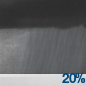
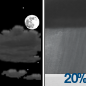
wire: 2026-10-13 RSA-1013-WIRE-115 + first sports/weather siblings

diff --git a/wire.html b/wire.html
@@ -5,12 +5,12 @@
   <meta name="viewport" content="width=device-width, initial-scale=1.0">
   <script>(function(){try{var s=localStorage.getItem('usmc-theme')||localStorage.getItem('theme');if(s!=='light')document.documentElement.setAttribute('data-theme','dark');}catch(e){}})();</script>
   <title>RESOLUTE Wire — Curated News for Citizens | U.S.M.C. Ministries</title>
-  <meta name="description" content="National and technology reporting for Monday evening.">
+  <meta name="description" content="National and technology reporting for Tuesday morning.">
   <link rel="canonical" href="https://usmcmin.com/wire.html">
   <meta property="og:site_name" content="RESOLUTE Wire">
-  <meta property="og:title" content="Cole&#x27;s crew marked 26 years since the Aden bombing at the ship&#x27;s memorial in Norfolk — RESOLUTE Wire">
-  <meta name="twitter:title" content="Cole&#x27;s crew marked 26 years since the Aden bombing at the ship&#x27;s memorial in Norfolk — RESOLUTE Wire">
-  <meta property="og:description" content="National and technology reporting for Monday evening.">
+  <meta property="og:title" content="USS Cole marked 26 years since the Aden bombing at Naval Station Norfolk — RESOLUTE Wire">
+  <meta name="twitter:title" content="USS Cole marked 26 years since the Aden bombing at Naval Station Norfolk — RESOLUTE Wire">
+  <meta property="og:description" content="National and technology reporting for Tuesday morning.">
   <meta property="og:type" content="website">
   <meta property="og:url" content="https://usmcmin.com/wire.html">
   <meta property="og:image" content="https://usmcmin.com/assets/og/wire-dvids-10007170-cole-remembrance-1200x630.jpg">
@@ -134,8 +134,8 @@
     </div>
     <header class="mast" id="top">
       <h1>RESOLUTE <em>Wire</em></h1>
-      <p class="dek">National and technology reporting for Monday evening.</p>
-      <div class="meta">Monday, October 12, 2026 · PM edition · Rush Sullivan</div>
+      <p class="dek">National and technology reporting for Tuesday morning.</p>
+      <div class="meta">Tuesday, October 13, 2026 · AM edition · Rush Sullivan</div>
     </header>
     <article class="hero">
       <div class="hero-media">
@@ -144,8 +144,8 @@
       </div>
       <div class="hero-body">
         <span class="chip">DVIDS</span>
-        <h2><a href="https://www.dvidshub.net/news/576795/uss-cole-crew-honors-fallen-heroes-26th-anniversary-bombing" target="_blank" rel="noopener">Cole&#x27;s crew marked 26 years since the Aden bombing at the ship&#x27;s memorial in Norfolk</a></h2>
-        <p class="insight">The crew of USS Cole held a remembrance today at the USS Cole Memorial on Naval Station Norfolk. The Navy said the ceremony included a wreath-laying, a reading of the names of the 17 sailors killed, a ceremonial bell, a three-volley rifle salute, and Taps. On Oct. 12, 2000, while the destroyer was refueling in Aden, Yemen, a small boat detonated against the port side at 11:18 a.m. local time, ripping a 40-by-60-foot hole near the waterline. Seventeen sailors were killed and nearly 40 were injured. Commanding officer Cmdr. Chris Gostel said the ship&#x27;s legacy is part of everything the crew does. Cole remains an active warship.</p>
+        <h2><a href="https://www.dvidshub.net/news/576795/uss-cole-crew-honors-fallen-heroes-26th-anniversary-bombing" target="_blank" rel="noopener">USS Cole marked 26 years since the Aden bombing at Naval Station Norfolk</a></h2>
+        <p class="insight">DVIDS posted Monday that the crew of USS Cole held a remembrance at the USS Cole Memorial on Naval Station Norfolk. The ceremony included a wreath-laying, a reading of the names with a ceremonial bell, a three-volley rifle salute, and Taps. On Oct. 12, 2000, while the destroyer was refueling in Aden, Yemen, an Al-Qaida boat detonated against the port side at 11:18 a.m. local time, killing 17 Sailors and injuring nearly 40. Cmdr. Chris Gostel, the commanding officer, said the ship&#x27;s legacy is part of everything the crew does. The release says Cole remains an active warship. It does not say where the ship is assigned now.</p>
         <div class="src">DVIDS · <a href="https://www.dvidshub.net/news/576795/uss-cole-crew-honors-fallen-heroes-26th-anniversary-bombing" target="_blank" rel="noopener">Read source →</a></div>
       </div>
     </article>
@@ -154,17 +154,17 @@
         <h3>Political</h3>
         <article class="item no-media">
           <div>
-            <h4><a href="https://lawliberty.org/james-madison-on-human-nature/" target="_blank" rel="noopener">Law &amp; Liberty says Madison&#x27;s limit on power starts with human nature, not procedure</a></h4>
-            <p>Monday&#x27;s lecture, revised from an April talk at Hillsdale&#x27;s Washington campus, argues that James Madison treated government as a reflection on human nature. It quotes Federalist 51 and Madison&#x27;s 1816 annual message, which tied the public good to the written Constitution and to the moral principles allied to it. The writer pushes back on readings that treat Madison as a pluralist whose order is only checks, balances, and bargaining. It is an argument about founding principles, not a bill or a floor vote.</p>
+            <h4><a href="https://lawliberty.org/what-does-history-and-tradition-require/" target="_blank" rel="noopener">Law &amp; Liberty says the Court never required an unbroken tradition for every religious practice</a></h4>
+            <p>Tuesday&#x27;s essay argues that some separation advocates want a long, specific history before a religious display can stand, and that the Supreme Court has never said that. It cites Marsh v. Chambers on legislative prayer, Lynch v. Donnelly on a public Nativity, and Kennedy v. Bremerton, which dropped the Lemon test for historical practices. Justice Gorsuch&#x27;s Shurtleff concurrence, drawing on Michael McConnell, lists founding-era hallmarks of an establishment: control of doctrine, mandated attendance, punishment of dissenters, and public funding of a preferred church. The piece says a practice that does not resemble those hallmarks is presumably constitutional. It is an argument, not a new opinion.</p>
             <div class="who">Law &amp; Liberty</div>
           </div>
           
         </article>
         <article class="item no-media">
           <div>
-            <h4><a href="https://www.thepublicdiscourse.com/2026/10/102100/" target="_blank" rel="noopener">Public Discourse looks at a 539 decree that regulated who could enter Constantinople</a></h4>
-            <p>Monday&#x27;s essay asks how far a country may regulate migration and return people already inside its borders. The writer uses Novel 80, a decree Justinian issued in 539 that regulated migration to Constantinople and set up an office to enforce it. He argues the Catholic tradition has a basis both for enforcement and for protecting the most vulnerable. It is a historical argument, not a statute or an agency order.</p>
-            <div class="who">Public Discourse</div>
+            <h4><a href="https://lawliberty.org/private-prosecutors/" target="_blank" rel="noopener">Law &amp; Liberty says private False Claims Act suits still prosecute in the government&#x27;s name</a></h4>
+            <p>Tuesday&#x27;s essay says a qui tam relator, with no injury of her own, may sue in the name of the United States and keep up to 30 percent of the recovery. It cites a Justice Department release that relators filed a record 1,297 such suits last fiscal year, and that nearly half of what they recovered came in cases the department declined to join. The Eleventh Circuit held that Clarissa Zafirov, a physician-relator, is not an officer because she holds no continuing position, and sent the Vesting and Take Care questions back down. The piece treats fraud on the Treasury as a public wrong that belongs to the executive. It is an argument, not a statute.</p>
+            <div class="who">Law &amp; Liberty</div>
           </div>
           
         </article>
@@ -173,8 +173,8 @@
         <h3>Tech / AI</h3>
         <article class="item no-media">
           <div>
-            <h4><a href="https://www.defensenews.com/news/your-military/2026/10/12/us-army-creates-robotics-technician-job-to-focus-on-drone-warfare/" target="_blank" rel="noopener">The Army inducted its first robotics warrant officers for drone work</a></h4>
-            <p>Defense News reported Monday that the Army formally introduced 10 warrant officers as 390A robotics technicians at the John F. Kennedy Special Warfare Center and School. They are meant to program, build, repair, and integrate robotic and autonomous systems, and to advise commanders at brigade and group level. Candidates complete a 19-week course in which they build drones that do not need GPS or radio to navigate. Chief Warrant Officer 5 Jerry Brown said the skill cannot be one more hat for someone already on an operational detachment. Vice Chief of Staff Gen. Christopher LaNeve said the Army is scaling the specialty. This is an occupational specialty standing up, not a fielded drone fleet.</p>
+            <h4><a href="https://www.defensenews.com/news/your-military/2026/10/12/us-army-creates-robotics-technician-job-to-focus-on-drone-warfare/" target="_blank" rel="noopener">The Army inducted its first robotics technicians for drone warfare</a></h4>
+            <p>Defense News reported Monday that the Army formally introduced 10 warrant officers as 390A robotics technicians at the John F. Kennedy Special Warfare Center and School. They are to program, build, repair, and integrate robotic and autonomous systems, and advise commanders at brigade and group level. Chief Warrant Officer 5 Jerry Brown said the skill cannot be an extra hat on an operational detachment. Candidates take a 19-week course and must build drones that do not need GPS or radio to navigate. Vice Chief of Staff Gen. Christopher LaNeve said the Army is scaling the specialty. This is a new job, not a fielded fleet.</p>
             <div class="who">Defense News</div>
           </div>
           
@@ -182,7 +182,15 @@
         <article class="item no-media">
           <div>
             <h4><a href="https://www.defensenews.com/industry/techwatch/2026/10/12/lockheeds-new-pac-3-edge-interceptor-aims-for-agility/" target="_blank" rel="noopener">Lockheed showed a longer PAC-3 interceptor at the Army&#x27;s annual meeting</a></h4>
-            <p>Defense News reported Monday that Lockheed Martin debuted the PAC-3 Edge at the Association of the United States Army meeting in Washington. Jason Reynolds, who runs the company&#x27;s integrated air and missile defense business, said the missile can launch from the M903, from containerized launchers, and from a HIMARS configured for offense and defense. It is longer and wider than the PAC-3 MSE, adds attitude-control motors, and uses a three-pulse motor from Northrop Grumman. Lockheed said testing is planned for 2027. The Army timeline Reynolds cited is 2031, and the company wants it sooner. This is a debut, not a fielded round.</p>
+            <p>Defense News reported Monday that Lockheed Martin debuted the PAC-3 Edge at the Association of the United States Army meeting in Washington. Jason Reynolds, a Lockheed missiles executive, told the paper the missile can launch from the M903, from containerized launchers, and from a HIMARS offense-and-defense configuration. He said extra attitude-control motors and a third pulse, from a Northrop Grumman motor, are meant to add agility and altitude. Lockheed said in January it has a seven-year framework to raise annual PAC-3 production from about 600 to 2,000. Reynolds said Army timing is 2031, and Lockheed wants the missile sooner. This is a company unveiling, not a test shot.</p>
+            <div class="who">Defense News</div>
+          </div>
+          
+        </article>
+        <article class="item no-media">
+          <div>
+            <h4><a href="https://www.defensenews.com/news/your-military/2026/10/12/the-us-army-is-back-in-the-jungle-panamanians-are-showing-soldiers-the-way/" target="_blank" rel="noopener">The Army&#x27;s jungle school in Panama is open again, with Panamanian instructors</a></h4>
+            <p>Defense News reported Monday that the Jungle Operations Training Course, closed in 1999, has resumed as an 18-day class taught with Panamanian forces. Lt. Col. Andrew Eagen, who heads the U.S. center, said nine Panamanian instructors from three branches lead the survival work, and that more than 10 Panamanian students sat the class the reporter attended. He said the Army is holding at least 20 of 120 seats for partners, including 15 for Panamanians, and that Colombian students are the next likely add. Eagen said the course is about the environment, not Panama&#x27;s security situation. This is a reopened school, not a deployment order.</p>
             <div class="who">Defense News</div>
           </div>
           
@@ -192,17 +200,17 @@
         <h3>Culture</h3>
         <article class="item no-media">
           <div>
-            <h4><a href="https://www.dvidshub.net/news/576794/army-names-usasoc-team-best-squad-nco-and-soldier-year-winners" target="_blank" rel="noopener">A Ranger squad took the Army&#x27;s Best Squad title, and two of its own took the individual awards</a></h4>
-            <p>The Army announced the winners today at the Association of the United States Army meeting in Washington. Sgt. Maj. of the Army Michael R. Weimer gave all three honors to a five-soldier squad from the 75th Ranger Regiment, representing U.S. Army Special Operations Command. Cpl. Michael Shield was named Soldier of the Year and Staff Sgt. Colin Doyle was named NCO of the Year. The events ran at Fort Benning from Sept. 11 to 19 and included a board, fitness tests, weapons lanes, an 18.6-mile night march, and a water-survival course. Doyle said the regiment&#x27;s daily work is marksmanship, small-unit tactics, medical training, and mobility.</p>
-            <div class="who">DVIDS</div>
+            <h4><a href="https://www.thepublicdiscourse.com/2026/10/102110/" target="_blank" rel="noopener">Public Discourse says Catholic schools should stop handing every student a screen</a></h4>
+            <p>Tuesday&#x27;s essay argues that one-to-one Chromebook and iPad programs are hard to justify once generative tools can write a student&#x27;s essay. It quotes Pope Leo XIV&#x27;s encyclical Magnifica Humanitas that every technology shapes the person who uses it, and that education includes teaching when not to use it. The writer says character and spiritual formation both suffer when ease is the default, and that fluency with a tablet is not the same as command of language. The piece is an argument for school leaders, not a diocesan order.</p>
+            <div class="who">Public Discourse</div>
           </div>
           
         </article>
         <article class="item no-media">
           <div>
-            <h4><a href="https://www.dvidshub.net/news/576793/kfor-regional-command-east-transfers-authority-53rd-infantry-brigade-combat-team-1st-infantry-division" target="_blank" rel="noopener">The Big Red One took eastern Kosovo from the Florida Guard today</a></h4>
-            <p>Kosovo Force Regional Command-East transferred authority today at Camp Bondsteel from the 53rd Infantry Brigade Combat Team, Florida Army National Guard, to the 1st Infantry Division. Col. Sam Sargeant handed the command to Col. Jabari Miller. The release says the division helped stand up the NATO mission in 1999 and is back more than two decades later. During nine months, the outgoing task force ran more than 4,500 multinational battle-group patrols, 9,000 patrols in northern Kosovo, and about 1,900 flight hours. KFOR commander Maj. Gen. Özkan Ulutaş said the outgoing rotation led about 1,400 people from 12 nations.</p>
-            <div class="who">DVIDS</div>
+            <h4><a href="https://wng.org/articles/the-social-reckoning-1791473131" target="_blank" rel="noopener">WORLD says Sorkin&#x27;s Facebook film cuts January 6 against a hearing that came months later</a></h4>
+            <p>Thursday&#x27;s review covers Aaron Sorkin&#x27;s The Social Reckoning, a follow-on to The Social Network, set around the Facebook Files. WORLD rates it R and in theaters. The review says the film cuts a congressional hearing against January 6 as if the two sat close together, when they were nine months apart, and that the Files ran in September 2021, later than the film implies. It also says the picture shows people refusing masks and vaccines after the algorithm fed them misinformation, and does not show left-wing radicalization. The reviewer writes from a Washington screening where Frances Haugen said the film does not get everything right.</p>
+            <div class="who">WORLD News Group</div>
           </div>
           
         </article>
@@ -218,7 +226,7 @@
     </section>
     <section class="watch">
       <h3>Watch</h3>
-      <ul><li><a href="https://news.usni.org/2026/10/12/u-k-royal-navy-destroyer-returns-home-from-middle-east-strait-of-hormuz-multinational-mission-in-limbo" target="_blank" rel="noopener">USNI says HMS Dragon is home, and the Hormuz multinational mission is in limbo</a> </li><li><a href="https://www.defensenews.com/news/your-military/2026/10/12/3-us-soldiers-awarded-purple-hearts-after-missile-attack-on-saudi-arabia-base/" target="_blank" rel="noopener">Three soldiers received Purple Hearts for a March missile strike in Saudi Arabia</a> </li></ul>
+      <ul><li><a href="https://news.usni.org/2026/10/12/u-k-royal-navy-destroyer-returns-home-from-middle-east-strait-of-hormuz-multinational-mission-in-limbo" target="_blank" rel="noopener">USNI says a Royal Navy destroyer is home and the Hormuz mission is in limbo</a> </li></ul>
     </section>
     <section class="dock">
       <a href="sports.html"><div class="k">Texas desk</div><div class="t">Sports</div><div class="d">Texans, Astros, Rockets — character and the score.</div></a>

diff --git a/weather.html b/weather.html
@@ -131,7 +131,7 @@
     <header class="mast" id="top">
       <h1>RESOLUTE <em>Weather</em></h1>
       <p class="dek">Fredericksburg, Virginia — National Weather Service. Readiness, not climate talk.</p>
-      <div class="meta">Monday, October 12, 2026 · PM edition</div>
+      <div class="meta">Tuesday, October 13, 2026 · AM edition</div>
     </header>
     <article class="hero">
       <div class="hero-media">
@@ -140,16 +140,16 @@
       </div>
       <div class="hero-body">
         <span class="chip">NWS / Readiness</span>
-        <h2>No active NWS alerts on the Fredericksburg point. Mostly sunny this afternoon, high near 76.</h2>
-        <p class="insight">NWS lists no active alert for the Fredericksburg forecast point. Columbus Day afternoon is mostly sunny, a high near 76, a north wind around 8 mph. Tonight is mostly clear, a low around 55. Tuesday starts with patchy fog between 7 and 10 a.m., then sunny, near 82. Wednesday is sunny, near 88. A slight chance of showers returns after 2 a.m. Thursday.</p>
+        <h2>No active NWS alerts on the Fredericksburg point. Patchy fog, then sun, high near 82.</h2>
+        <p class="insight">NWS lists no active alert for the Fredericksburg forecast point. Today brings patchy fog before 10 a.m., then sun, a high near 82, and a south wind 0 to 7 mph. Tonight is clear, a low around 63. Wednesday is sunny, near 88. Thursday turns to rain showers likely, mostly cloudy, a high near 70, with a 60 percent chance of precipitation.</p>
         <div class="src">Alerts: No watch or warning is up. · <a href="https://forecast.weather.gov/MapClick.php?lat=38.3032&amp;lon=-77.4605" target="_blank" rel="noopener">NWS forecast →</a></div>
-        <ul class="actions"><li>No active watches or warnings on the city point</li><li>Mostly sunny this afternoon, high near 76, then mostly clear tonight</li><li>Patchy fog Tuesday morning, then sun through Wednesday</li></ul>
+        <ul class="actions"><li>No active watches or warnings on the city point</li><li>Patchy fog before 10 a.m., then sunny, high near 82</li><li>Rain showers likely Thursday, high near 70</li></ul>
       </div>
     </article>
     <section class="watch">
       <h3>Forecast</h3>
-      <p class="src">NWS forecast issued 2:22 PM EDT, Oct. 12. Periods below are as issued for this edition · <a href="https://forecast.weather.gov/MapClick.php?lat=38.3032&amp;lon=-77.4605" target="_blank" rel="noopener">Current forecast →</a></p>
-      <div class="period"><img class="period-icon" src="assets/weather/nws-columbus-day-day-sct.png" alt=""><div><strong>Columbus Day</strong><p class="insight">Mostly sunny, with a high near 76. North wind around 8 mph.</p></div></div><div class="period"><img class="period-icon" src="assets/weather/nws-tonight-night-few.png" alt=""><div><strong>Tonight</strong><p class="insight">Mostly clear, with a low around 55. Northwest wind 0 to 5 mph.</p></div></div><div class="period"><img class="period-icon" src="assets/weather/nws-tuesday-day-fog-few.png" alt=""><div><strong>Tuesday</strong><p class="insight">Patchy fog between 7am and 10am. Sunny, with a high near 82. Southwest wind 0 to 8 mph.</p></div></div><div class="period"><img class="period-icon" src="assets/weather/nws-tuesday-night-night-few.png" alt=""><div><strong>Tuesday Night</strong><p class="insight">Mostly clear, with a low around 64. Southwest wind 2 to 6 mph.</p></div></div><div class="period"><img class="period-icon" src="assets/weather/nws-wednesday-day-few.png" alt=""><div><strong>Wednesday</strong><p class="insight">Sunny, with a high near 88. Southwest wind around 5 mph.</p></div></div><div class="period"><img class="period-icon" src="assets/weather/nws-wednesday-night-night-sct-rain.png" alt=""><div><strong>Wednesday Night</strong><p class="insight">A slight chance of rain showers after 2am. Partly cloudy, with a low around 65. Chance of precipitation is 20%.</p></div></div>
+      <p class="src">NWS forecast issued 4:53 AM EDT, Oct. 13. Periods below are as issued for this edition · <a href="https://forecast.weather.gov/MapClick.php?lat=38.3032&amp;lon=-77.4605" target="_blank" rel="noopener">Current forecast →</a></p>
+      <div class="period"><img class="period-icon" src="assets/weather/nws-today-day-fog-few.png" alt=""><div><strong>Today</strong><p class="insight">Patchy fog before 10am. Sunny, with a high near 82. South wind 0 to 7 mph.</p></div></div><div class="period"><img class="period-icon" src="assets/weather/nws-tonight-night-skc.png" alt=""><div><strong>Tonight</strong><p class="insight">Clear, with a low around 63. Southwest wind 2 to 6 mph.</p></div></div><div class="period"><img class="period-icon" src="assets/weather/nws-wednesday-day-few.png" alt=""><div><strong>Wednesday</strong><p class="insight">Sunny, with a high near 88. Southwest wind 1 to 6 mph.</p></div></div><div class="period"><img class="period-icon" src="assets/weather/nws-wednesday-night-night-rain.png" alt=""><div><strong>Wednesday Night</strong><p class="insight">A slight chance of rain showers after 2am. Partly cloudy, with a low around 65. Northwest wind around 3 mph. Chance of precipitation is 20%.</p></div></div><div class="period"><img class="period-icon" src="assets/weather/nws-thursday-day-rain.png" alt=""><div><strong>Thursday</strong><p class="insight">Rain showers likely. Mostly cloudy, with a high near 70. Northeast wind 3 to 7 mph. Chance of precipitation is 60%.</p></div></div><div class="period"><img class="period-icon" src="assets/weather/nws-thursday-night-night-rain.png" alt=""><div><strong>Thursday Night</strong><p class="insight">A chance of rain showers. Mostly cloudy, with a low around 60. Chance of precipitation is 30%.</p></div></div>
       
     </section>
     <section class="dock">

diff --git a/sports.html b/sports.html
@@ -131,16 +131,16 @@
     <header class="mast" id="top">
       <h1>RESOLUTE <em>Sports</em></h1>
       <p class="dek">Texas desk — Texans, Astros, Rockets. Character and the score, not celebrity.</p>
-      <div class="meta">Monday, October 12, 2026 · PM edition</div>
+      <div class="meta">Tuesday, October 13, 2026 · AM edition</div>
     </header>
     <article class="hero">
       <div class="hero-media">
-        <img src="assets/sports/nrg-reliant-interior.jpg" alt="NRG Stadium, Houston">
-        <div class="hero-credit">NRG Stadium interior. Wikimedia Commons, CC BY-SA 2.0. Photo: Ed Schipul.</div>
+        <img src="assets/sports/nrg-reliant-interior.jpg" alt="Reliant Stadium, Houston">
+        <div class="hero-credit">Reliant Stadium interior. Wikimedia Commons, CC BY-SA 2.0. Photo: Ed Schipul.</div>
       </div>
       <div class="hero-body">
         <span class="chip">Venue still</span>
-        <h2>NRG Stadium, Houston</h2>
+        <h2>Reliant Stadium, Houston</h2>
         <p class="insight">Wikimedia Commons venue stills. Not league game photography.</p>
       </div>
     </article>
@@ -150,24 +150,24 @@
         <article class="item">
           <div>
             <h4><a href="https://www.houstontexans.com/schedule/" target="_blank" rel="noopener">Texans play Jacksonville in London on Sunday, 8:30 a.m. Central</a></h4>
-            <p>The Houston Texans schedule lists Sunday, Oct. 18, as an away game against the Jacksonville Jaguars at Wembley Stadium, kickoff 8:30 a.m. Central, on NFL Network. Sunday&#x27;s game at Tennessee is behind them on the club page, which does not print a final, so none is stated here. The next home date is Oct. 25 against the New York Giants, noon Central, on FOX.</p>
+            <p>The Houston Texans schedule lists Sunday, Oct. 18, as an away game against the Jacksonville Jaguars at Wembley Stadium, kickoff 8:30 a.m. Central, on NFL Network. Sunday&#x27;s game at Tennessee is behind them on the club page, which does not print a final, so none is stated here. The next home date is Oct. 25 against the New York Giants, noon Central, on FOX. The club page now calls the home ground Reliant Stadium.</p>
             <div class="who">Houston Texans</div>
           </div>
           <div class="thumb"><img src="assets/sports/nrg-reliant-interior.jpg" alt=""></div>
         </article>
         <article class="item">
           <div>
-            <h4><a href="https://www.mlb.com/news/5-questions-facing-astros-in-2026-offseason" target="_blank" rel="noopener">Astros still have no general manager, and Espada&#x27;s contract ends this month</a></h4>
-            <p>MLB.com reports the club parted ways with general manager Dana Brown on Aug. 24. Assistant general managers Charles Cook, Gavin Dickey, and Connor Huff, with senior advisor Jeff Bagwell, have carried the work, and owner Jim Crane is overseeing baseball operations. Nearly a week after the White Sox eliminated Houston in two games in the American League Wild Card Series, MLB.com says the search is unchanged. Manager Joe Espada&#x27;s contract expires at the end of October. He said last week he would like to return. No decision is posted.</p>
+            <h4><a href="https://www.mlb.com/news/astros-lose-2026-al-wild-card-series" target="_blank" rel="noopener">Astros are out of the 2026 postseason; the ALCS is Rays and Guardians</a></h4>
+            <p>MLB.com reported that Houston was the first team eliminated from the 2026 postseason after winning the American League West on the final day of the regular season. The league&#x27;s postseason page lists the Dodgers, Brewers, Rays, and Guardians in the League Championship Series. Tuesday&#x27;s listed game is Cleveland at Tampa Bay, Game 2, at 8 p.m. Eastern. Houston is not on that card.</p>
             <div class="who">MLB.com</div>
           </div>
           <div class="thumb"><img src="assets/sports/daikin-minute-maid-2010.jpg" alt=""></div>
         </article>
         <article class="item">
           <div>
-            <h4><a href="https://www.nba.com/rockets/news/rockets-announce-schedule-for-2026-27-nba-season" target="_blank" rel="noopener">Rockets finished the Macao preseason; the regular season opens Oct. 20</a></h4>
-            <p>The club&#x27;s schedule announcement lists two preseason games in Macao against Dallas, Oct. 9 and Oct. 11, as part of the NBA China Games. Both dates are now behind the calendar. The same announcement sets opening-night rosters for Oct. 19 at 5 p.m. Eastern, with the regular season starting Oct. 20. No final from Sunday&#x27;s game is printed on the page used here, so none is stated.</p>
-            <div class="who">NBA.com</div>
+            <h4><a href="https://www.nba.com/rockets/news/rockets-announce-schedule-for-2026-27-nba-season" target="_blank" rel="noopener">Rockets open the season at home against Dallas on Oct. 21</a></h4>
+            <p>The Rockets&#x27; official schedule note says opening night, presented by Toyota, is against Dallas on Oct. 21. No tip time is printed on that note, so none is stated here. The club is not in season yet.</p>
+            <div class="who">Houston Rockets</div>
           </div>
           <div class="thumb"><img src="assets/sports/toyota-center-interior.jpg" alt=""></div>
         </article>
